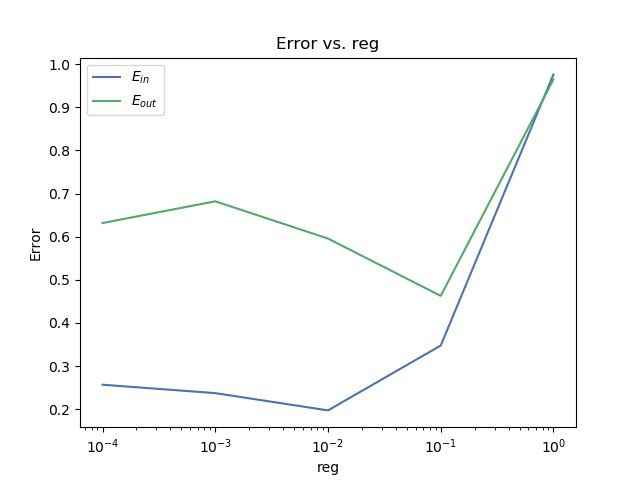
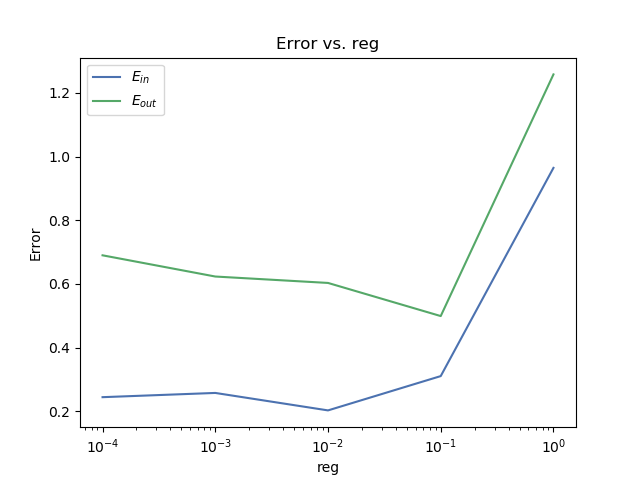
Adding bias

diff --git a/matrixFactorization.py b/matrixFactorization.py
@@ -33,7 +33,7 @@ def grad_V(Vj, Yij, Ui, reg, eta):
     return ret
 
 
-def get_err(U, V, Y, reg=0.0):
+def get_err(U, V, Y, reg, b, b_u, b_i, bias):
     """
     Takes as input a matrix Y of triples (i, j, Y_ij) where i is the index of
     a user, j is the index of a movie, and Y_ij is user i's rating of movie j
@@ -45,11 +45,15 @@ def get_err(U, V, Y, reg=0.0):
     """
     n_rows = Y.shape[0]
     error = 0
+
     for row in range(n_rows):
         i = Y[row, 0] - 1
         j = Y[row, 1] - 1
         Y_ij = Y[row, 2]
-        pred = np.dot(U[i, :], V[j, :])
+        if bias:
+            pred = b + b_u[:,np.newaxis] + b_i[np.newaxis:,] + np.dot(U[i, :], V[j, :])
+        else:
+            pred = np.dot(U[i, :], V[j, :])
         dev = (Y_ij - pred)
         error += dev * dev
 
@@ -64,7 +68,7 @@ def get_err(U, V, Y, reg=0.0):
     return error / n_rows
 
 
-def train_model(M, N, K, eta, reg, Y, eps=0.0001, max_epochs=300):
+def train_model(M, N, K, eta, reg, Y, bias, eps=0.0001, max_epochs=300):
     """
     Given a training data matrix Y containing rows (i, j, Y_ij)
     where Y_ij is user i's rating on movie j, learns an
@@ -88,8 +92,20 @@ def train_model(M, N, K, eta, reg, Y, eps=0.0001, max_epochs=300):
     V = np.random.rand(N, K) - 0.5
     print("U.shape: ", U.shape)
     print("V.shape: ", V.shape)
+
+    # If adding bias
+    ratings = Y[:, 2]
+    if bias:
+        b_u = np.zeros(M)
+        b_i = np.zeros(N)
+        b = np.mean(ratings[np.where(ratings != 0)])
+    else:
+        b = 0
+        b_u = 0
+        b_i = 0
+
     # Defines variable for keeping track with stopping condition
-    prev_error = get_err(U, V, Y, reg)
+    prev_error = get_err(U, V, Y, reg, b, b_u, b_i, False)
     decrease = None
 
     for epoch in range(max_epochs):
@@ -102,7 +118,16 @@ def train_model(M, N, K, eta, reg, Y, eps=0.0001, max_epochs=300):
             U[i, :] = U[i, :] - grad_U(U[i, :], Y_ij, V[j, :], reg, eta)
             V[j, :] = V[j, :] - grad_V(V[j, :], Y_ij, U[i, :], reg, eta)
 
-        new_error = get_err(U, V, Y, reg)
+            if bias:
+                # Compute prediction and error
+                prediction = b + b_u[i] + b_i[j] + U[i, :].dot(V[j, :].T)
+                e = (Y_ij - prediction)
+
+                # Update biases
+                b_u[i] += eta * (e - reg * b_u[i])
+                b_i[j] += eta * (e - reg * b_i[j])
+
+        new_error = get_err(U, V, Y, reg, b, b_u, b_i, False)
         print("epoch: %d, error: %f" % (epoch, new_error))
 
         # Epoch 1

diff --git a/visualizations.py b/visualizations.py
@@ -81,9 +81,9 @@ def method1_reg(train, test):
 
     for reg in regs:
         print("Training model with reg = %s" % (reg))
-        U, V, E_in = mf.train_model(M, N, K, eta, reg, train)
+        U, V, E_in = mf.train_model(M, N, K, eta, reg, train, False)
         E_ins.append(E_in)
-        E_outs.append(mf.get_err(U, V, test))
+        E_outs.append(mf.get_err(U, V, test, reg, 0, 0, 0, False))
 
     plt.plot(regs, E_ins, label='$E_{in}$')
     plt.plot(regs, E_outs, label='$E_{out}$')
@@ -105,8 +105,8 @@ def method1(train, test):
 
     reg = 10**-1
     eta = 0.03  # learning rate
-    U, V, E_in = mf.train_model(M, N, K, eta, reg, train)
-    E_out = mf.get_err(U, V, test)
+    U, V, E_in = mf.train_model(M, N, K, eta, reg, train, False)
+    E_out = mf.get_err(U, V, test, reg, 0, 0, 0, False)
     print("E_in = ", E_in)
     print("E_out = ", E_out)
 
